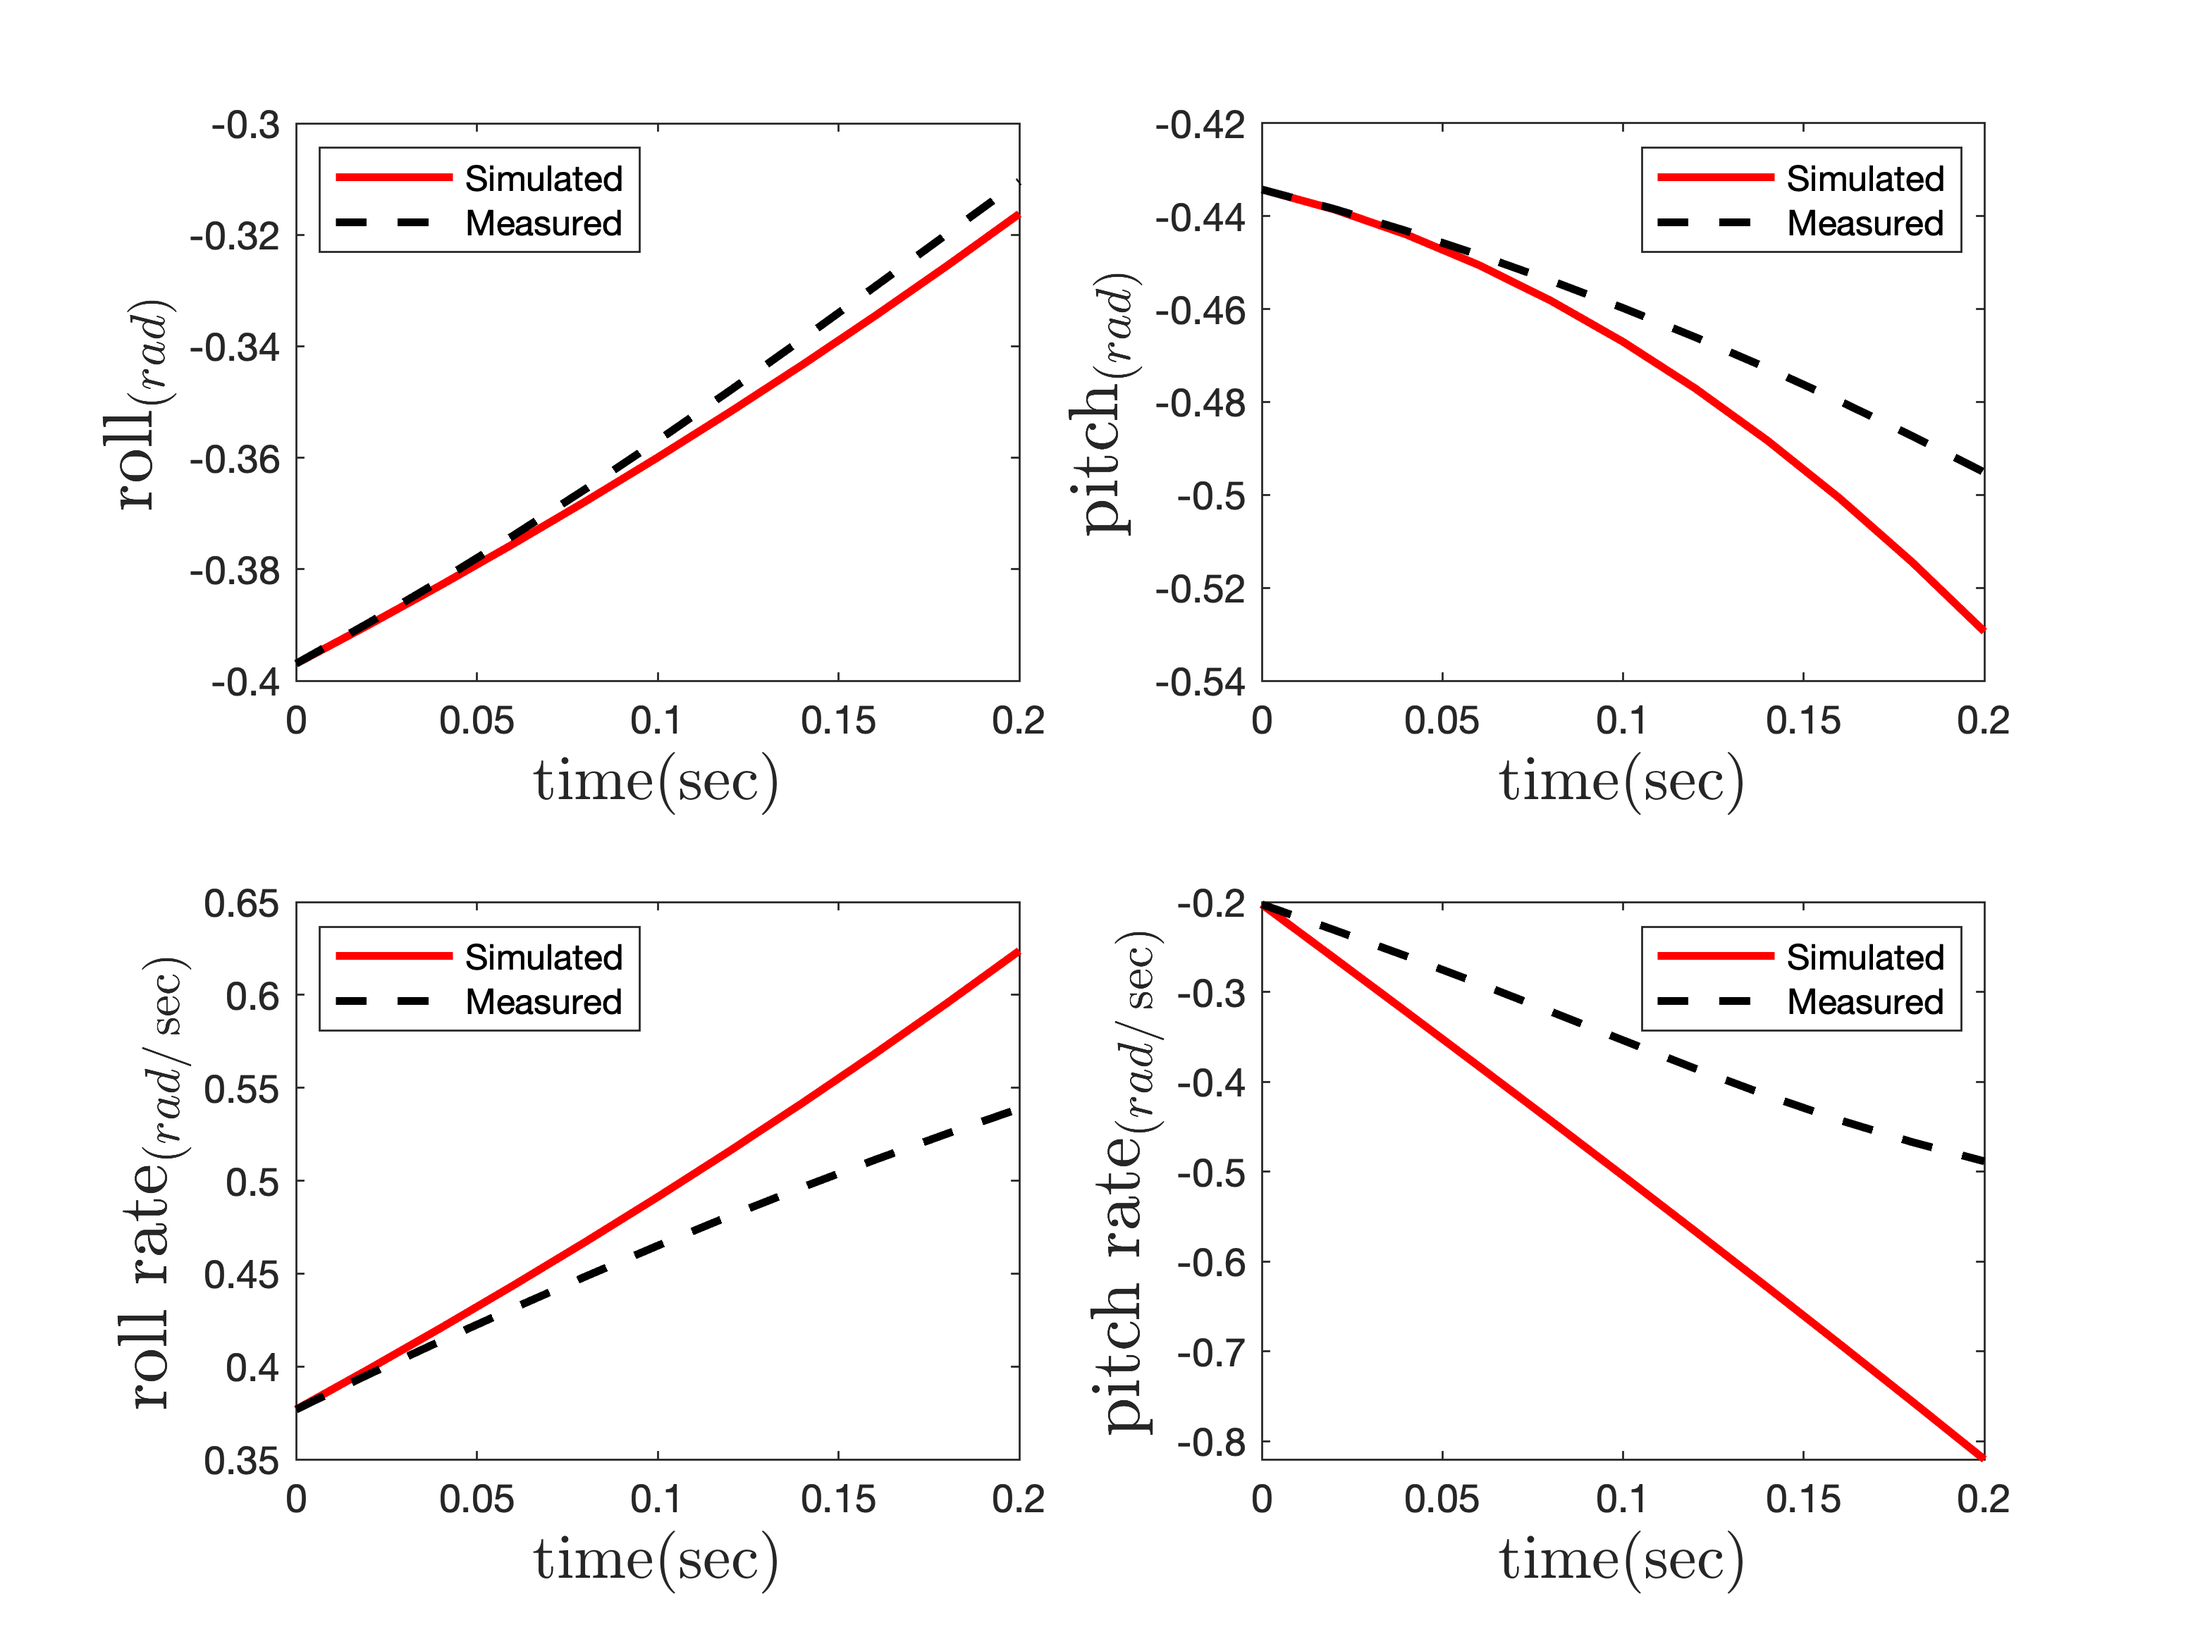
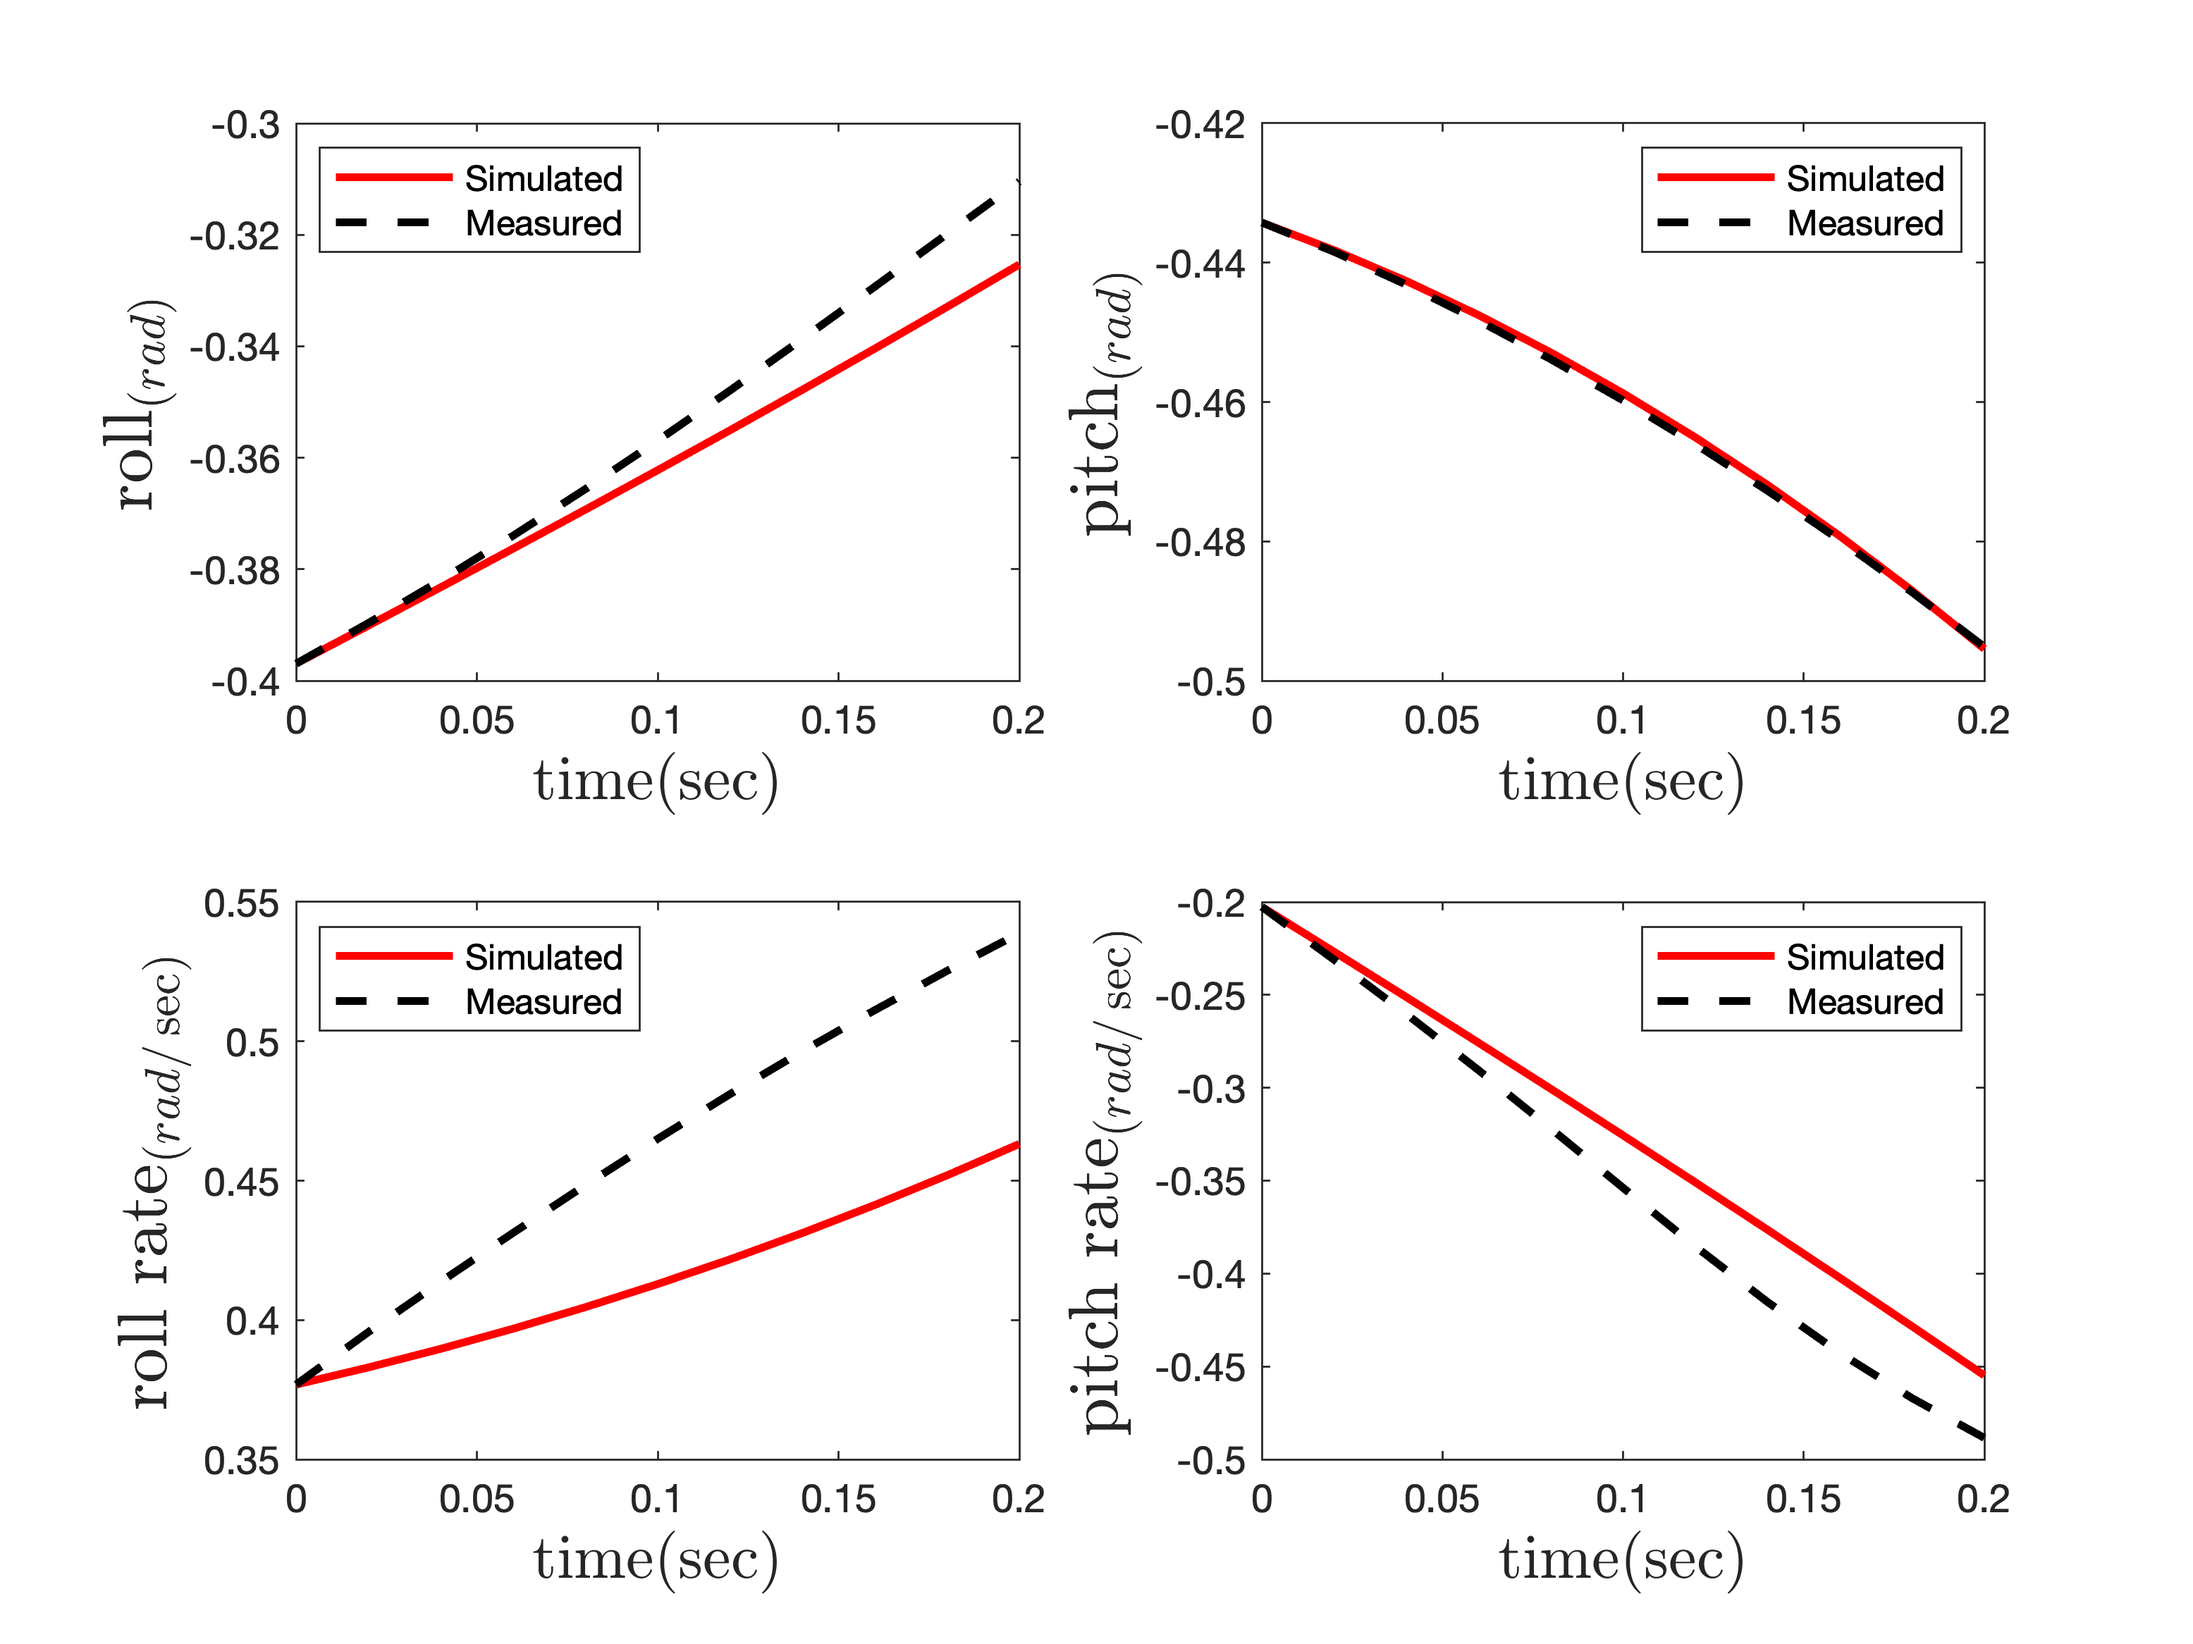
new rcp with filter

diff --git a/Code/Simulink/Quadcopter/RCP/OpenLoop/Roll-Pitch/parameter_estimation/roll_pitch_parameter_estimation.m b/Code/Simulink/Quadcopter/RCP/OpenLoop/Roll-Pitch/parameter_estimation/roll_pitch_parameter_estimation.m
@@ -1,12 +1,12 @@
 % roll paraameter
 A1 = 4.62576573735484;
 A3 = 5.47149559872898e-05;
-A4 = -0.00135317872895202;
+A4 = 0.0042389046279626;
 A5 = 0.01253355441940169;
-A6 = 0.628891443554123;
+A6 = 1.46696966839619;
 % pitch parameter
-B1 = 3.24098484589471;
-B3 = 5.24682602251308e-05;
-B4 = -0.00426627416623687;
-B5 = 0.171406679098153;
-B6 = 3.38333711326421;
+B1 = 4.01246924394844;
+B3 = 5.84007299606944e-05;
+B4 = -0.00290399920830275;
+B5 = 0.177769573218896;
+B6 = 3.5275452670017;
